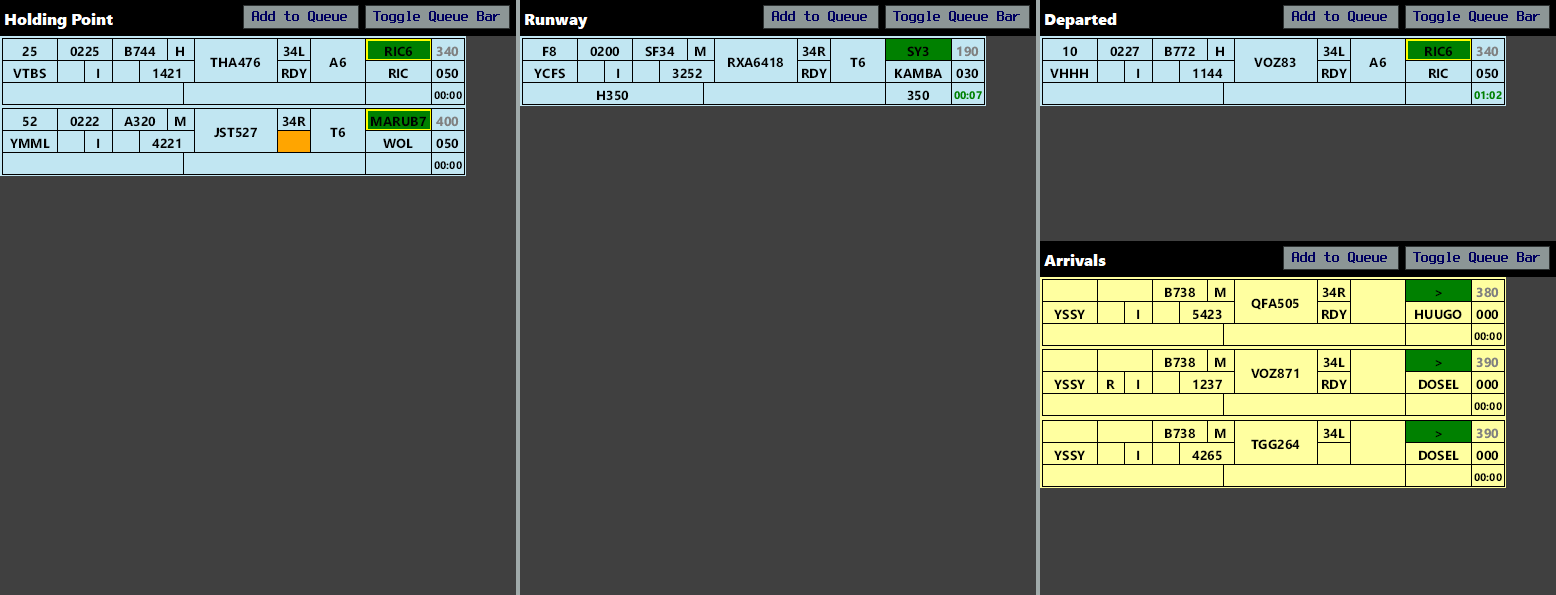
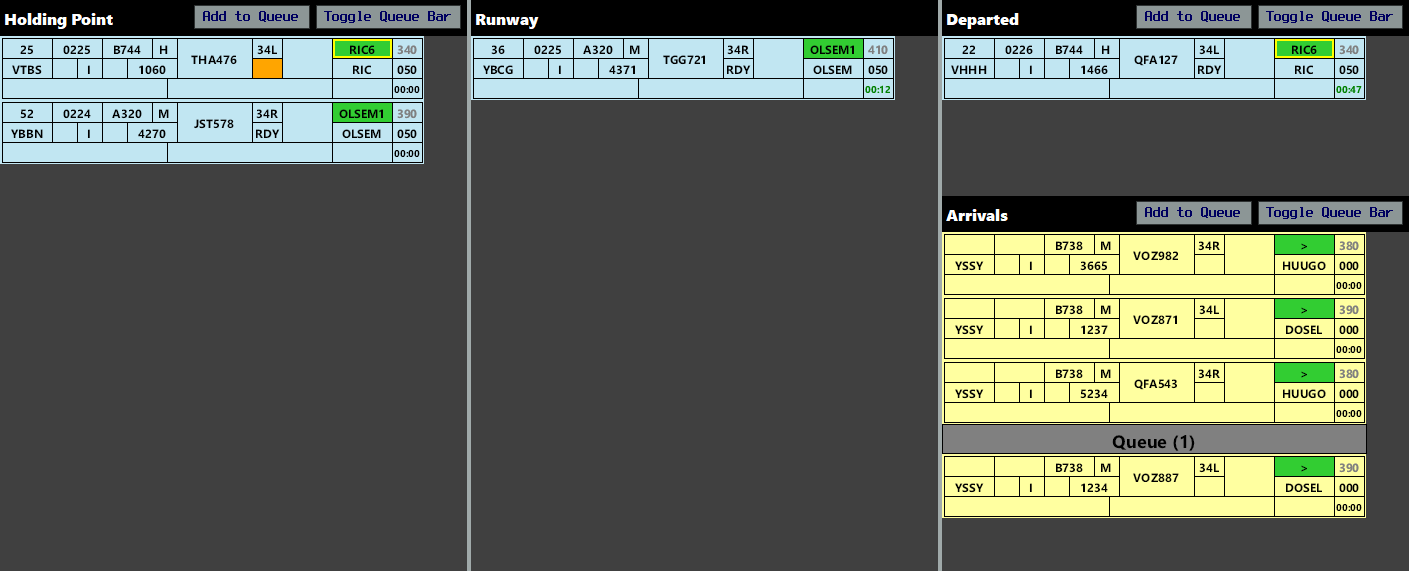
Update procedure for arrivals (#644)

Changed region(s): [[0.0, 0.0, 1.0, 0.2977], [0.6558, 0.3275, 1.0, 0.9229]]

diff --git a/docs/client/towerstrips.md b/docs/client/towerstrips.md
@@ -310,7 +310,7 @@ If the TCU suspends autorelease, record this by placing the `AUTORELEASE SUSPEND
     This mode is only beneficial to ADC where the departure rate is important and will be less beneficial for events where aircraft depart in a wide variety of outbound directions.
 
 #### Arrivals
-When an aircraft calls you on Tower frequency, click the Ready flag (to show that they are on frequency). When a landing clearance is issued, move the strip to the **Runway Bay**.
+Order the **Arrivals Bay** so that the next aircraft to land are positioned at the bottom. When an aircraft calls you on Tower frequency, queue them. When a landing clearance is issued, move the strip to the **Runway Bay**.
 
 After the aircraft vacates the runway, move the strip to the **Taxi Bay**.
 
